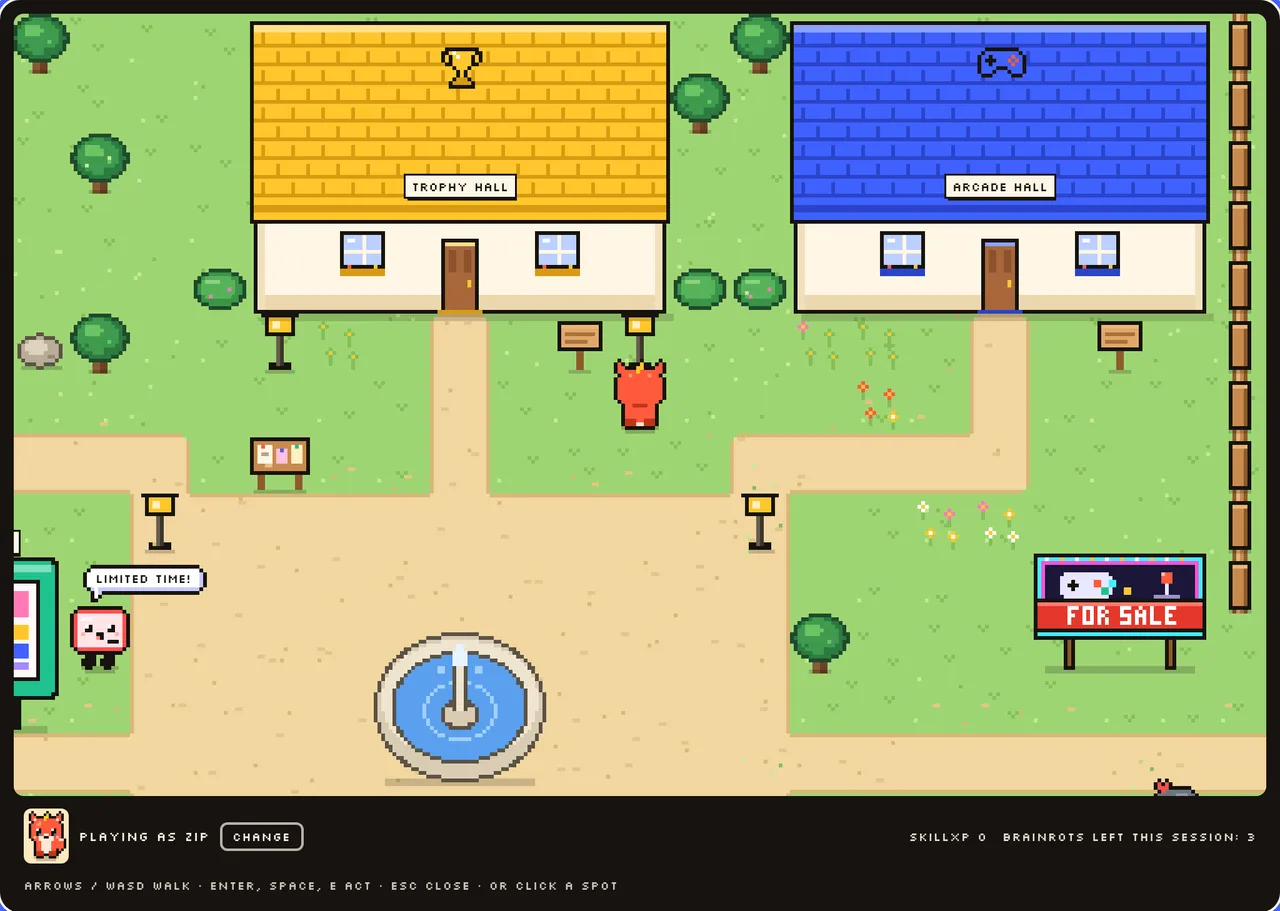
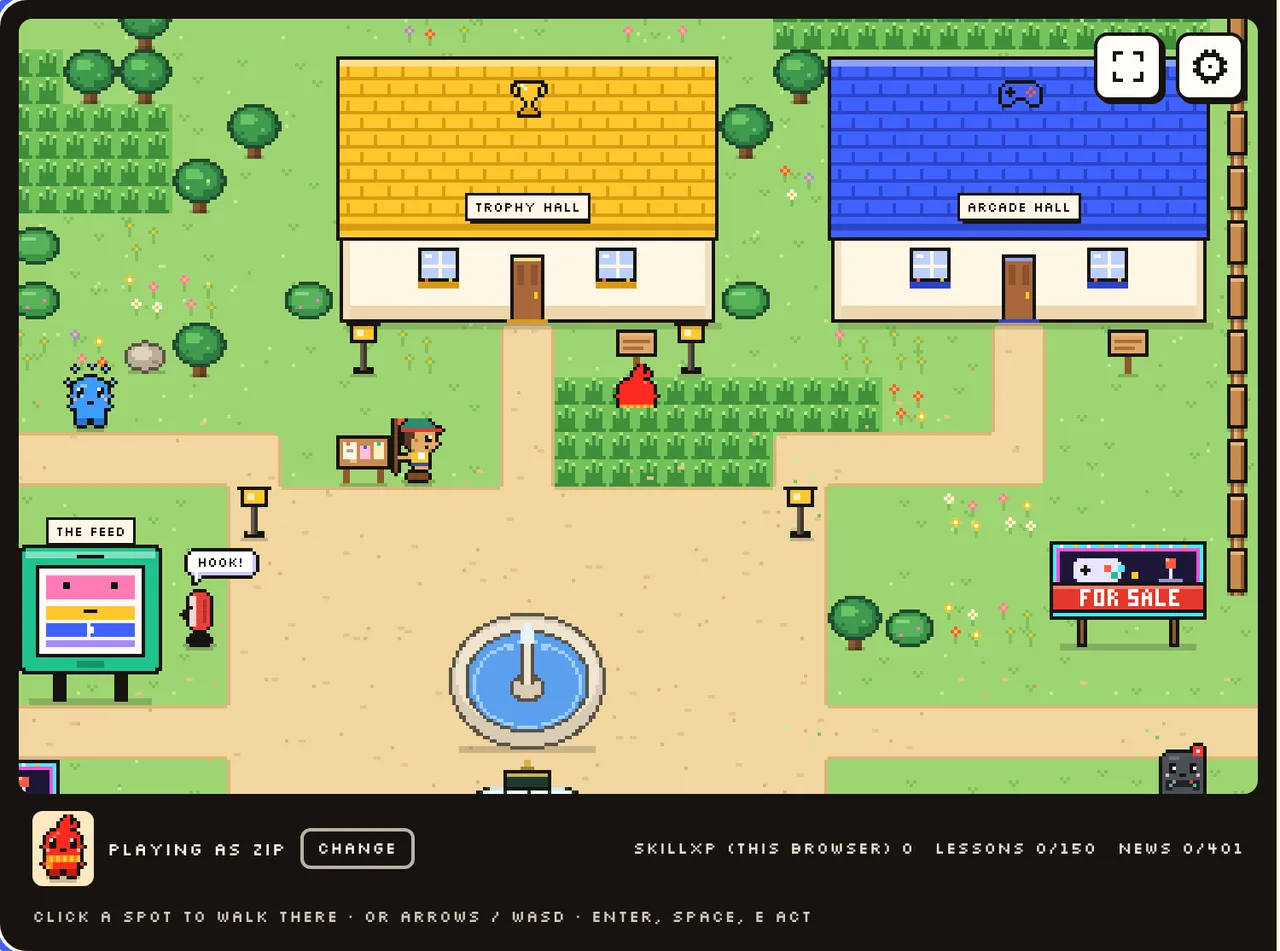
SkillxTube and SkillXGames: definitive versions (299 games, 14 universes, free learning), new captures
Claude-Session: https://claude.ai/code/session_016H9RWfp2cb3kjR6U6N4tHW

diff --git a/app/_data/design-portfolio.ts b/app/_data/design-portfolio.ts
@@ -1089,8 +1089,8 @@ export const designPortfolioText = {
     FR: "For makers : gratuit, ou on génère",
   },
   "pricing.3": {
-    EN: "First a 7-step credit slider, then three Orchestra-style cards. Today, two cards on a dark background: the library is free, you only pay to generate a custom path.",
-    FR: "D'abord un curseur de crédits à 7 crans, puis trois cartes façon Orchestra. Aujourd'hui, deux cartes sur fond sombre : la bibliothèque est gratuite, on ne paie que pour générer un parcours sur mesure.",
+    EN: "First a 7-step credit slider, then three Orchestra-style cards, then two cards on a dark background: the library free, a fee only to generate a custom path. Since November 2, 2026, learning is free: no plan, no card, and optional SkillXP packs are the only purchase.",
+    FR: "D'abord un curseur de crédits à 7 crans, puis trois cartes façon Orchestra, puis deux cartes sur fond sombre : la bibliothèque gratuite, un paiement seulement pour générer un parcours sur mesure. Depuis le 2 novembre 2026, apprendre est gratuit : sans abonnement, sans carte, et des packs de SkillXP optionnels sont le seul achat.",
   },
   "pricing.4": {
     EN: "The Generate card carries a 3, 7 or 14-day picker, and the pay once / monthly toggle stays on top.",
@@ -1165,8 +1165,8 @@ export const designPortfolioText = {
     FR: "« Recommend once. Get paid every month for a year. » La candidature se fait dans un chat : nom, canal de diffusion, confirmation des 18 ans et des conditions, puis un bouton vers l'espace affilié.",
   },
   "affiliates.4": {
-    EN: "40% of every payment for 12 months. The affiliate space tracks clicks, sales, conversion and commissions, with a 10% code to give away.",
-    FR: "40 % de chaque paiement pendant 12 mois. L'espace affilié suit clics, ventes, conversion et commissions, avec un code de 10 % à offrir.",
+    EN: "First 40% of every payment for 12 months, with a 10% code to give away; the affiliate space tracks clicks, sales, conversion and commissions. Since November 2, 2026, affiliates bring brands and earn 25% of what a brand pays for 12 months.",
+    FR: "D'abord 40 % de chaque paiement pendant 12 mois, avec un code de 10 % à offrir ; l'espace affilié suit clics, ventes, conversion et commissions. Depuis le 2 novembre 2026, les affiliés amènent des marques et touchent 25 % de ce qu'une marque paie pendant 12 mois.",
   },
   "affiliates.img0": {
     EN: "Become an affiliate chat window asking for the applicant's name",
@@ -2363,8 +2363,8 @@ export const skillxGames = {
   } as L,
   facts: [
     {
-      EN: "299 games in 13 universes, from Memory to Absurd Bureaucracy",
-      FR: "299 jeux dans 13 univers, de la Mémoire à l'Absurd Bureaucracy",
+      EN: "299 games in 14 universes, from Memory to Edu Casino",
+      FR: "299 jeux dans 14 univers, de la Mémoire à l'Edu Casino",
     },
     {
       EN: "One page per game, with a Record button to share a run as a clip",
@@ -2386,43 +2386,47 @@ export const skillxGames = {
     label: { EN: "Zoom · The community", FR: "Zoom · La communauté" } as L,
     title: { EN: "A pixel town to walk around", FR: "Une ville en pixels où se balader" } as L,
     text: {
-      EN: "The community is a place, not a forum. Pick a member of the gang (Zip, Skip, Thumby, Buffer, Later, Feed) or play as yourself, then walk with the arrows from door to door. The townsfolk greet you and each line slips in one real tip, wild Brainrots hide in the tall grass, and the bridge east crosses to the SkillxTube town with the same character.",
-      FR: "La communauté est un lieu, pas un forum. On choisit un membre de la bande (Zip, Skip, Thumby, Buffer, Later, Feed) ou on joue en son nom, puis on se balade aux flèches de porte en porte. Les habitants saluent et chaque réplique glisse un vrai conseil, des Brainrots sauvages se cachent dans les hautes herbes, et le pont à l'est passe dans la ville SkillxTube avec le même personnage.",
+      EN: "The community is a place, not a forum. Pick a member of the crew (Zip, Skip, Thumby, Buffer, Later, Ding, CC, Feed) or play as yourself, then walk from door to door. Chat with the players in town, fish for news at Greg's Kiosk, raise a dragon by winning games, and cross the bridge east to the SkillxTube town with the same character.",
+      FR: "La communauté est un lieu, pas un forum. On choisit un membre de la bande (Zip, Skip, Thumby, Buffer, Later, Ding, CC, Feed) ou on joue en son nom, puis on se balade de porte en porte. On discute avec les joueurs présents, on pêche les nouvelles au kiosque de Greg, on élève un dragon en gagnant des parties, et on passe le pont à l'est vers la ville SkillxTube avec le même personnage.",
     } as L,
     places: [
       { name: "Trophy Hall", text: { EN: "The leaderboards", FR: "Les classements" } as L },
-      { name: "Zen Room", text: { EN: "Pixel landscapes, box breathing, focus timer", FR: "Paysages en pixels, respiration carrée, minuteur" } as L },
       { name: "Arcade Hall", text: { EN: "The Zip & the Gang cabinets", FR: "Les bornes de Zip & la bande" } as L },
       { name: "Card Room", text: { EN: "Card games, with a sheet to learn each one", FR: "Jeux de cartes, avec une fiche pour apprendre chacun" } as L },
+      { name: "Dragon Nest", text: { EN: "Pick an egg, raise your dragon by winning games", FR: "Choisir un œuf, élever son dragon en gagnant des parties" } as L },
+      { name: "The Lodge", text: { EN: "The seasonal games, each event once a year", FR: "Les jeux saisonniers, chaque événement une fois par an" } as L },
+      { name: "Zen Room", text: { EN: "Pixel landscapes, box breathing, focus timer", FR: "Paysages en pixels, respiration carrée, minuteur" } as L },
+      { name: "Edu Casino", text: { EN: "Fake chips, real maths (18+)", FR: "Faux jetons, vraies maths (18+)" } as L },
+      { name: "Shop · The Library", text: { EN: "SkillxTube's guides, some unlocked with SkillXP", FR: "Les guides de SkillxTube, certains débloqués avec les SkillXP" } as L },
+      { name: "Town Hall", text: { EN: "Every game in town, wing by wing", FR: "Tous les jeux de la ville, aile par aile" } as L },
       { name: "The Feed", text: { EN: "Short skill games, one scroll after another", FR: "Des jeux courts, d'un scroll à l'autre" } as L },
-      { name: "Shop", text: { EN: "Support the game, opening soon", FR: "Soutenir le jeu, bientôt ouvert" } as L },
     ],
     townAlt: {
-      EN: "The SkillXGames town: Zip stands between the Trophy Hall and the Arcade Hall, Thumby says “Limited time!”, a fountain and a “For sale” billboard",
-      FR: "La ville de SkillXGames : Zip entre le Trophy Hall et l'Arcade Hall, Thumby lance « Limited time! », une fontaine et un panneau « For sale »",
+      EN: "The SkillXGames town: Zip in front of the Trophy Hall and the Arcade Hall, a player in a cap, the Feed billboard, a fountain and a “For sale” sign",
+      FR: "La ville de SkillXGames : Zip devant le Trophy Hall et l'Arcade Hall, un joueur en casquette, le panneau du Feed, une fontaine et un panneau « For sale »",
     } as L,
     hallTitle: { EN: "The Trophy Hall", FR: "Le Trophy Hall" } as L,
     hallText: {
-      EN: "Four boards in one hall: the community's champions, you against your friends with a challenge link, your own records, and the big match SkillxTube vs SkillXGames. Free, no account needed.",
-      FR: "Quatre classements dans une seule salle : les champions de la communauté, soi contre ses amis avec un lien de défi, ses propres records, et le grand match SkillxTube vs SkillXGames. Gratuit, sans compte.",
+      EN: "The Hall of wins: every win earns its place behind glass, and the champion cup takes the spotlight. Record holders, a board to challenge friends, your best on every game, the live SkillxTube vs SkillXGames board, and SkillXP for this month's top 3. No account needed.",
+      FR: "Le Hall of wins : chaque victoire gagne sa place sous verre, et la coupe du champion prend la lumière. Les détenteurs de records, un classement pour défier ses amis, son meilleur score sur chaque jeu, le classement en direct SkillxTube vs SkillXGames, et des SkillXP pour le top 3 du mois. Sans compte.",
     } as L,
     hallAlt: {
-      EN: "The Trophy Hall: trophies under glass and team jerseys on a pixel gallery wall, with how the boards work",
-      FR: "Le Trophy Hall : trophées sous verre et maillots d'équipe sur un mur de galerie en pixels, avec le fonctionnement des classements",
+      EN: "The Trophy Hall: a pixel gallery of trophies under glass and team jerseys, the champion cup in a spotlight above a red carpet",
+      FR: "Le Trophy Hall : une galerie en pixels de trophées sous verre et de maillots d'équipe, la coupe du champion sous un projecteur au-dessus d'un tapis rouge",
     } as L,
     live: [
       {
         title: { EN: "A multiplayer town", FR: "Une ville multijoueur" } as L,
         text: {
-          EN: "Other players show up live and walk next to you, in rooms of 40 (Town #1, #2…). Only the character, its skin and its tile are shared: no names, no text, and every incoming message is checked.",
-          FR: "Les autres joueurs apparaissent en direct et marchent à côté de soi, dans des salons de 40 (Town #1, #2…). Seuls le personnage, sa couleur et sa case sont partagés : ni nom, ni texte, et chaque message reçu est vérifié.",
+          EN: "Other players show up live and walk next to you, in rooms of 20 (Town #1, #2…), and can greet each other with three fixed lines. Nothing is stored: only the character, its skin and its position cross the wire.",
+          FR: "Les autres joueurs apparaissent en direct et marchent à côté de soi, dans des salons de 20 (Town #1, #2…), et peuvent se saluer avec trois phrases toutes faites. Rien n'est stocké : seuls le personnage, sa couleur et sa position circulent.",
         } as L,
       },
       {
-        title: { EN: "A live chat on every page", FR: "Un live chat sur toutes les pages" } as L,
+        title: { EN: "A town chat", FR: "Un chat de la ville" } as L,
         text: {
-          EN: "A floating button bottom-right opens a Twitch-style panel (a bottom sheet on phones). Post with a SkillxTube account for a ✓ name, or with a nickname. SkillxTube runs the moderation: no links, no personal info, kind language, no caps lock, slow mode, a daily limit and a report button on every message.",
-          FR: "Un bouton flottant en bas à droite ouvre un panneau façon Twitch (un tiroir sur mobile). On poste avec un compte SkillxTube pour un nom ✓, ou avec un pseudo. SkillxTube gère la modération : pas de liens, pas d'infos perso, un langage bienveillant, pas de majuscules, un mode lent, une limite par jour et un bouton de signalement sur chaque message.",
+          EN: "A live chat sits right next to the town map. Post with a SkillxTube account for a ✓ name, or with a nickname. SkillxTube runs the moderation: no links, no personal info, kind language, no caps lock, slow mode, a daily limit and a report button on every message.",
+          FR: "Un chat en direct est posé juste à côté de la carte de la ville. On poste avec un compte SkillxTube pour un nom ✓, ou avec un pseudo. SkillxTube gère la modération : pas de liens, pas d'infos perso, un langage bienveillant, pas de majuscules, un mode lent, une limite par jour et un bouton de signalement sur chaque message.",
         } as L,
       },
     ],
@@ -2460,15 +2464,15 @@ export const skillxGames = {
       {
         title: { EN: "Beat SkillxTube", FR: "Battre SkillxTube" } as L,
         text: {
-          EN: "Each run is dealt and checked by SkillxTube, so every score is fair, and it counts for Team SkillXGames on the shared board.",
-          FR: "Chaque partie est distribuée et vérifiée par SkillxTube, donc chaque score est juste, et elle compte pour l'équipe SkillXGames sur le classement commun.",
+          EN: "Levels, three lives and a score. Bests show in the Trophy Hall, and the two classics, Zip vs the Brainrot and Later's Queue, also score for Team SkillXGames on the shared board.",
+          FR: "Des niveaux, trois vies et un score. Les records s'affichent dans le Trophy Hall, et les deux classiques, Zip vs the Brainrot et Later's Queue, comptent aussi pour l'équipe SkillXGames sur le classement commun.",
         } as L,
       },
       {
         title: { EN: "Learn the skill", FR: "Apprendre la compétence" } as L,
         text: {
-          EN: "Each game trains one skill, and SkillxTube turns it into a learning path you can prove. Sign-in always goes through SkillxTube.",
-          FR: "Chaque jeu entraîne une compétence, et SkillxTube en fait un parcours d'apprentissage qu'on peut prouver. La connexion passe toujours par SkillxTube.",
+          EN: "Each game trains one skill, and every run ends with a link to SkillxTube's lessons, where the skill becomes a learning path you can prove.",
+          FR: "Chaque jeu entraîne une compétence, et chaque partie se termine par un lien vers les leçons de SkillxTube, où la compétence devient un parcours d'apprentissage qu'on peut prouver.",
         } as L,
       },
     ],
@@ -2485,34 +2489,34 @@ export const skillxGames = {
   },
   shots: [
     {
-      src: "/projects/skillxgames/01-hero.aece3f2689.webp",
+      src: "/projects/skillxgames/01-home.319067e17c.webp",
       width: 1040,
-      height: 650,
+      height: 520,
       alt: {
-        EN: "SkillxGames home: “Small games. Sharp minds.” beside a coral arcade cabinet",
-        FR: "Accueil de SkillxGames : « Small games. Sharp minds. » à côté d'une borne d'arcade corail",
+        EN: "SkillXGames home: “Small games. Sharp minds.”, 299 games, 14 categories, 299 playable, beside the autumn arcade cabinet",
+        FR: "Accueil de SkillXGames : « Small games. Sharp minds. », 299 jeux, 14 catégories, 299 jouables, à côté de la borne d'arcade d'automne",
       } as L,
-      caption: { EN: "The home page", FR: "La page d'accueil" } as L,
+      caption: { EN: "The home page, in its autumn look", FR: "La page d'accueil, en tenue d'automne" } as L,
     },
     {
-      src: "/projects/skillxgames/02-memory-match.a24861ec80.webp",
+      src: "/projects/skillxgames/02-game-page.0e16158eed.webp",
       width: 1040,
-      height: 728,
+      height: 636,
       alt: {
-        EN: "Memory Match mid-game: 4 pairs out of 8 found in 12 moves",
-        FR: "Memory Match en cours de partie : 4 paires sur 8 trouvées en 12 coups",
+        EN: "A game page: Memory Match on a dot-matrix display, with level, length, Start, Record and Full screen",
+        FR: "Une page de jeu : Memory Match sur un écran à matrice de points, avec niveau, durée, Start, Record et plein écran",
       } as L,
-      caption: { EN: "Memory Match, the first playable game", FR: "Memory Match, le premier jeu jouable" } as L,
+      caption: { EN: "One page per game, with Record", FR: "Une page par jeu, avec Record" } as L,
     },
     {
-      src: "/projects/skillxgames/03-game-library.e48113eff7.webp",
+      src: "/projects/skillxgames/03-universes.546a65d899.webp",
       width: 1040,
-      height: 583,
+      height: 838,
       alt: {
-        EN: "The game library: search, category filters and cartridge-like game cards",
-        FR: "La ludothèque : recherche, filtres par catégorie et cartes de jeu en forme de cartouche",
+        EN: "“Pick your kind of challenge”: the universes from Memory to Absurd Bureaucracy, with Halloween live",
+        FR: "« Pick your kind of challenge » : les univers, de Memory à Absurd Bureaucracy, avec Halloween en direct",
       } as L,
-      caption: { EN: "The library, one cartridge per game", FR: "La ludothèque, une cartouche par jeu" } as L,
+      caption: { EN: "The universes, one zone each", FR: "Les univers, une zone chacun" } as L,
     },
   ],
 };

diff --git a/app/_data/projects.ts b/app/_data/projects.ts
@@ -171,8 +171,8 @@ export const projects: Project[] = [
     subtitle: { EN: "Small games. Sharp minds.", FR: "Petits jeux. Esprits vifs." },
     eyebrow: { EN: "GAME DESIGN · WEB · 2026", FR: "GAME DESIGN · WEB · 2026" },
     summary: {
-      EN: "The playful side of SkillxTube: an AI-powered arcade of 299 short skill games across 13 universes, with a pixel town, seasons and a crew of mascots.",
-      FR: "Le côté ludique de SkillxTube : une arcade de 299 jeux de compétences courts, propulsée par l'IA, répartie en 13 univers, avec une ville en pixels, des saisons et une bande de mascottes.",
+      EN: "The playful side of SkillxTube: an AI-powered arcade of 299 short skill games across 14 universes, with a pixel town, seasons and a crew of mascots.",
+      FR: "Le côté ludique de SkillxTube : une arcade de 299 jeux de compétences courts, propulsée par l'IA, répartie en 14 univers, avec une ville en pixels, des saisons et une bande de mascottes.",
     },
     marquee: "Small games. Sharp minds. Insert coin to continue.",
     tags: ["Game design", "Next.js", "Tailwind CSS", "Vercel"],
@@ -204,8 +204,8 @@ export const projects: Project[] = [
     intention: {
       list: [
         {
-          EN: "299 games in 13 universes: Memory, Puzzle, Logic, Quick Games, Adventure, Skillz, Social Media, Social Engineering, Money Moves, Absurd Bureaucracy, IQMaxxing, Card Room and Seasonal",
-          FR: "299 jeux dans 13 univers : Mémoire, Puzzle, Logique, Jeux rapides, Aventure, Skillz, Réseaux sociaux, Social Engineering, Money Moves, Absurd Bureaucracy, IQMaxxing, Card Room et Saisonnier",
+          EN: "299 games in 14 universes: Memory, Puzzle, Logic, Quick Games, Adventure, Skillz, Social Media, Social Engineering, Money Moves, Absurd Bureaucracy, IQMaxxing, Card Room, Edu Casino and Seasonal",
+          FR: "299 jeux dans 14 univers : Mémoire, Puzzle, Logique, Jeux rapides, Aventure, Skillz, Réseaux sociaux, Social Engineering, Money Moves, Absurd Bureaucracy, IQMaxxing, Card Room, Edu Casino et Saisonnier",
         },
         {
           EN: "Real skills turned into games: spot a con, read a chart, manage a first paycheck, write a better hook, survive absurd paperwork",
@@ -246,31 +246,31 @@ export const projects: Project[] = [
       ],
     },
     captions: {
-      "01-hero.aece3f2689.webp": {
+      "01-home.319067e17c.webp": {
         alt: {
-          EN: "SkillXGames home: “Small games. Sharp minds.” beside a coral arcade cabinet, with the games, categories and playable counters",
-          FR: "Accueil de SkillXGames : « Small games. Sharp minds. » à côté d'une borne d'arcade corail, avec les compteurs de jeux, catégories et jeux jouables",
+          EN: "SkillXGames home: “Small games. Sharp minds.”, 299 games, 14 categories, 299 playable, beside the autumn arcade cabinet",
+          FR: "Accueil de SkillXGames : « Small games. Sharp minds. », 299 jeux, 14 catégories, 299 jouables, à côté de la borne d'arcade d'automne",
         },
-        caption: { EN: "The home page.", FR: "La page d'accueil." },
+        caption: { EN: "The home page, in its autumn look.", FR: "La page d'accueil, en tenue d'automne." },
       },
-      "02-memory-match.a24861ec80.webp": {
+      "02-game-page.0e16158eed.webp": {
         alt: {
-          EN: "Memory Match mid-game: 4 pairs out of 8 found in 12 moves, with the how-to-play steps on the left",
-          FR: "Memory Match en cours de partie : 4 paires sur 8 trouvées en 12 coups, avec les règles à gauche",
+          EN: "A game page: Memory Match on a dot-matrix display, with level, length, Start, Record and Full screen",
+          FR: "Une page de jeu : Memory Match sur un écran à matrice de points, avec niveau, durée, Start, Record et plein écran",
         },
         caption: {
-          EN: "Memory Match, the first playable game: moves, time and pairs are counted live.",
-          FR: "Memory Match, le premier jeu jouable : coups, temps et paires sont comptés en direct.",
+          EN: "One page for every game: start screen, how to play, Record and full screen.",
+          FR: "Une page pour chaque jeu : écran de départ, règles, Record et plein écran.",
         },
       },
-      "03-game-library.e48113eff7.webp": {
+      "03-universes.546a65d899.webp": {
         alt: {
-          EN: "The game library: a search field, category filters and cartridge-like game cards with level and play time",
-          FR: "La ludothèque : un champ de recherche, des filtres par catégorie et des cartes de jeu en forme de cartouche avec niveau et durée",
+          EN: "“Pick your kind of challenge”: the universes from Memory to Absurd Bureaucracy, with Halloween live",
+          FR: "« Pick your kind of challenge » : les univers, de Memory à Absurd Bureaucracy, avec Halloween en direct",
         },
         caption: {
-          EN: "The library: search, filter by category, one cartridge per game.",
-          FR: "La ludothèque : recherche, filtre par catégorie, une cartouche par jeu.",
+          EN: "The universes: pick a zone, from Memory to Absurd Bureaucracy, plus the seasonal event.",
+          FR: "Les univers : on choisit une zone, de Memory à Absurd Bureaucracy, plus l'événement de saison.",
         },
       },
     },
